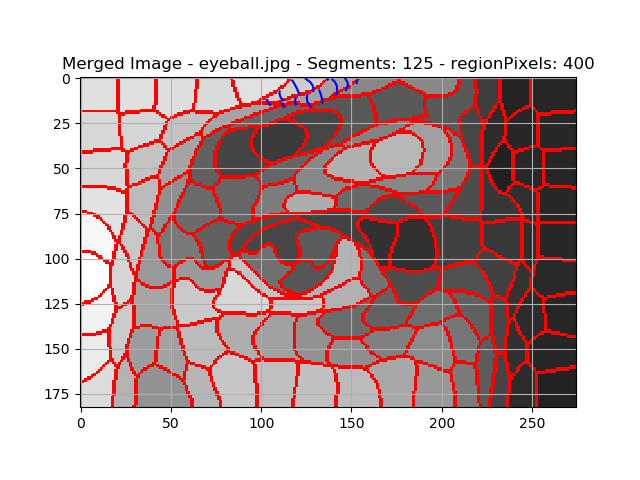
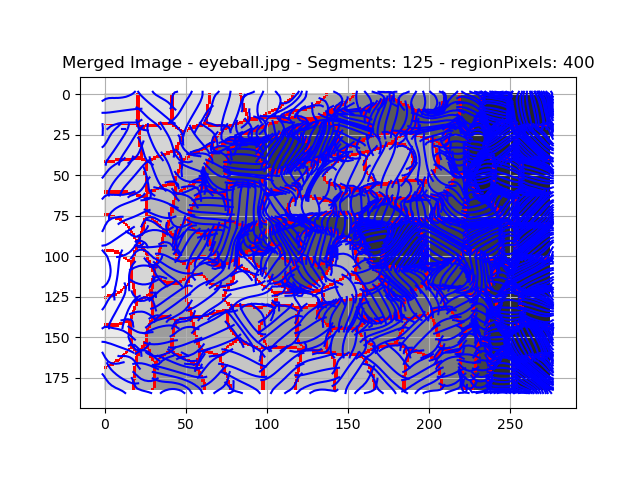
Fix defect with shifting.  Shifting now works properly.  No longer need to shift the lines when plotting as they have already been shifted.

diff --git a/PycharmProjects/geodesic/Bridson_FinishedImage.py b/PycharmProjects/geodesic/Bridson_FinishedImage.py
@@ -87,7 +87,7 @@ class FinishedImage:
 			raster = maskRasterCollection[ index ]
 			meshObj = meshObjCollection[ index ]
 
-			# print("Shape of Region Raster:", np.shape(regionRaster))
+			print("Shape of Region Raster:", np.shape(regionRaster))
 
 
 			regionCoordinates = regionMap.get(index)
@@ -100,31 +100,35 @@ class FinishedImage:
 			# print("Shape of raster:", (x,y))
 			for i in range(x):
 				for j in range(y):
-					newRaster[i - topLeftTarget[0] - 3 ][j + topLeftTarget[1] - 5 ] = raster[i][j]
-					# newRaster[i - topLeftTarget[0] + 5][j + topLeftTarget[1] - 5] = raster[i][j]
+					# newRaster[i - topLeftTarget[0] - 3 ][j + topLeftTarget[1] - 5 ] = raster[i][j]
+					if raster[i][j] != 0: # Only shift the points in the raster that have non-zero values.
+						newRaster[i + topLeftTarget[0] - 5 ][j + topLeftTarget[1] - 5 ] = raster[i][j]
 
 			newLinePoints = []
 			for line in linePoints:
 				newline = line.copy()
-				newline[:, 0] = line[:, 0] + topLeftTarget[1] - 5 # Needed to line up with regions.
-				newline[:, 1] = line[:, 1] - topLeftTarget[0] + 3  # Required to be negative.
+				newline[:, 0] = line[:, 0] + topLeftTarget[1] - 5 # Needed to line up with regions. Affects the x axis.
+				newline[:, 1] = line[:, 1] - topLeftTarget[0] + 5   # Required to be negative.  Affects the y axis.
 				newLinePoints.append( newline )
 
-			plt.figure()
-			ax = plt.subplot(1, 1, 1, aspect=1)
-			plt.title('shifted Lines')
-			plt.grid()
-			for line in newLinePoints:
-				ax.plot(line[:, 0], line[:, 1], color='r', marker='*')
+			if Bridson_Common.displayMesh:
+				plt.figure()
+				ax = plt.subplot(1, 1, 1, aspect=1)
+				plt.title('shifted Lines for region ' + index)
+				plt.grid()
+				for line in newLinePoints:
+					ax.plot(line[:, 0], line[:, 1], color='r', marker='*')
 
-			# meshObj.linePoints = newLinePoints
-			# maskRasterCollection[index] = newRaster
+				plt.figure()
+				plt.subplot(1, 1, 1, aspect=1)
+				plt.title('shifted Mask for region ' + index)
+				plt.grid()
+				plt.imshow(newRaster)
 
-			plt.figure()
-			plt.subplot(1, 1, 1, aspect=1)
-			plt.title('shifted Mask')
-			plt.grid()
-			plt.imshow(newRaster)
+
+			meshObj.linePoints = newLinePoints
+			maskRasterCollection[index] = newRaster
+
 
 
 
@@ -140,10 +144,6 @@ class FinishedImage:
 
 			regionCoordinates = regionMap.get(index)
 			topLeftTarget, bottomRightTarget = SLIC.calculateTopLeft(regionCoordinates)
-
-
-
-
 
 
 		pass
@@ -174,7 +174,8 @@ class FinishedImage:
 		# topLeftSource = self.maxLinePoints( linePoints )
 		# shiftCoordinates = (bottomRightTarget[0] - topLeftSource[0], bottomRightTarget[1] - topLeftSource[1])
 
-		linePoints = self.cropContourLines(linePoints, raster)
+		# linePoints = self.cropContourLines(linePoints, raster)
+
 
 		# print("NewLinePoints:", linePoints)
 		# print("actualTopLeft: ", actualTopLeft)
@@ -202,8 +203,11 @@ class FinishedImage:
 				line = linePoints[index].copy()
 				line = line * Bridson_Common.mergeScale
 				# For some reason we need to swap the topLeft x,y with the line x,y.
-				line[:, 0] = line[:, 0] + topLeftTarget[1] - 5 # Needed to line up with regions.
-				line[:, 1] = line[:, 1] - topLeftTarget[0] + 5  # Required to be negative.
+				############## Shifting the lines.
+				# line[:, 0] = line[:, 0] + topLeftTarget[1] - 5 # Needed to line up with regions.
+				# line[:, 1] = line[:, 1] - topLeftTarget[0] + 5  # Required to be negative.
+
+
 				if self.calculateLineSpacing(currentLine, line, intensity=regionIntensity) == True:
 					self.ax.plot(line[:, 0], line[:, 1]*flip, color=colour)
 					if Bridson_Common.closestPointPair:  # Only place the dots when we are calculating closest point pair.

diff --git a/PycharmProjects/geodesic/Bridson_Main.py b/PycharmProjects/geodesic/Bridson_Main.py
@@ -326,8 +326,8 @@ def indexValidation(filename):
 	meshObjCollection = {}
 
 	# for index in range(10,15):  # Interesting regions: 11, 12, 14
-	for index in range(5,7):
-	# for index in range( len(regionMap.keys()) ):
+	# for index in [12]:
+	for index in range( len(regionMap.keys()) ):
 		print("(***************** ", filename, " Starting Region: ", index, "of", Bridson_Common.segmentCount, "  *************************" )
 
 		# Generate the raster for the first region.

diff --git a/PycharmProjects/geodesic/Bridson_Common.py b/PycharmProjects/geodesic/Bridson_Common.py
@@ -22,7 +22,7 @@ if bulkGeneration == True:
 else:
 	displayMesh = True
 
-displayMesh = True
+displayMesh = False
 
 diagnostic=False # Generally avoid dispalying meshes.  Only count the number of successful trifinder generations.
 highlightEdgeTriangle=False # Highlight the edge triangle that contains the exterior point of the vertical lines.
